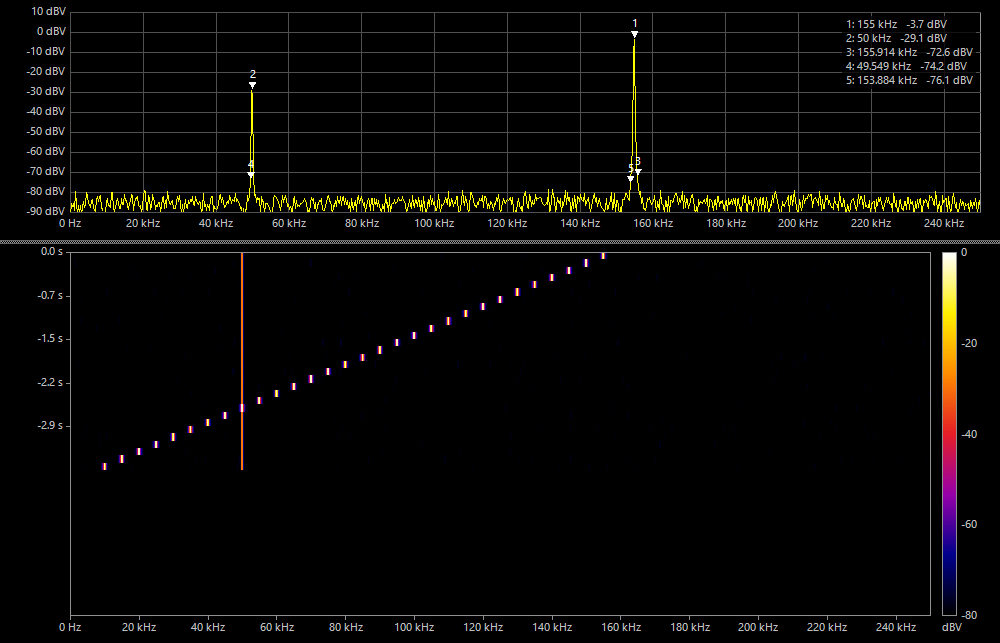
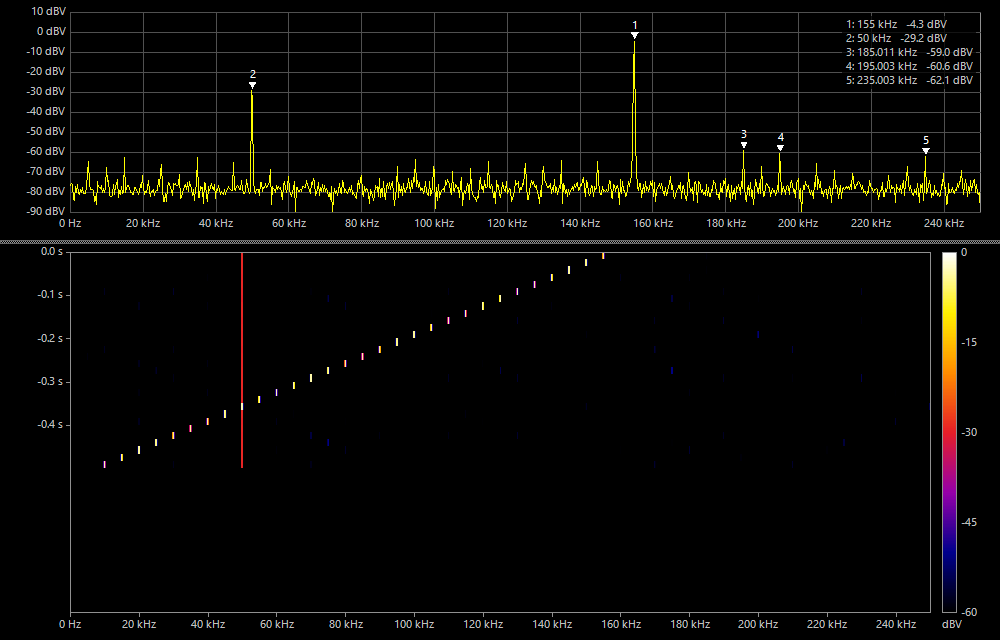
Demo files for the screenshots of FFT, X/Y, Waterfall and Live X/Y
The original test signals of the screenshots were not kept. New
synthetic demo files reproduce them, and the screenshots were made again
from these files with the windows of the program:
- FFT Spectrum Square 10 kHz.oszi: +-1 V, 1 MSa/s, 6000 samples
- X-Y Plot Sine 45 Degree.oszi: 1 kHz, X 0.8 V, Y 1 V, phase 45 degrees
- Waterfall FFT Steps 10-155 kHz.oszi: 30 blocks of 8192 samples at
  500 kSa/s, 10 ... 155 kHz in 5 kHz steps plus a constant 50 kHz tone
  (Waterfall FFT (play), Samples 8192, Speed Max)
- Live X-Y Lissajous 3-2.oszi: 300 / 200 Hz, 48 kSa/s, exactly 0.1 s
  (loops seamlessly)
The files are saved with OsziFile.Save and verified by loading them again
(error below the 8 bit resolution). The manual links to them, the Demo
Files chapter lists them; README, Samples/README.md and ASSET_PROVENANCE.md
document their origin. The X/Y screenshot now shows the color of the X
channel.

diff --git a/Compiled/Manual.htm b/Compiled/Manual.htm
@@ -158,6 +158,9 @@
 <p>
 <div>Oszi Waveform Analyzer comes with several pre-installed demo files that you should open one by one to discover all features.</div>
 <div>These files are real-world oscilloscope captures that can show you how to use this program.</div>
+<div>The demo files for the analysis windows are generated test signals:
+     <a href="Samples/FFT%20Spectrum%20Square%2010%20kHz.oszi">FFT Spectrum Square 10 kHz.oszi</a>, <a href="Samples/X-Y%20Plot%20Sine%2045%20Degree.oszi">X-Y Plot Sine 45 Degree.oszi</a>, <a href="Samples/X-Y%20Plot%20Square%201%20kHz.oszi">X-Y Plot Square 1 kHz.oszi</a>,
+     <a href="Samples/Waterfall%20FFT%20Steps%2010-155%20kHz.oszi">Waterfall FFT Steps 10-155 kHz.oszi</a> and <a href="Samples/Live%20X-Y%20Lissajous%203-2.oszi">Live X-Y Lissajous 3-2.oszi</a>.</div>
 
 <a name="Menu"></a>
 <h1>Keyboard, Mouse and Menu</h1>
@@ -296,7 +299,8 @@
 </table>
 <div>Right-click on the analog signal of a channel and select <b>FFT Spectrum</b> to see which frequencies the signal contains.</div>
 <div>The spectrum opens in a separate window. It is not modal, so you can open multiple spectra and continue working in the main window.</div>
-<div>The screenshot shows a 10 kHz square wave with its odd harmonics at 30, 50, 70 and 90 kHz.</div>
+<div>The screenshot shows the demo file <b><a href="Samples/FFT%20Spectrum%20Square%2010%20kHz.oszi">FFT Spectrum Square 10 kHz.oszi</a></b>: a 10 kHz square wave (&plusmn;1 V, 1 MSa/s, 6000 samples)</div>
+<div>with its odd harmonics at 30, 50, 70 and 90 kHz (Log frequency checked).</div>
 <p>
 <table class="DataTable">
 <tr><th>Setting</th><th>Meaning</th></tr>
@@ -358,7 +362,7 @@
 <p>
 <div>The status bar shows the peak-to-peak voltages and the <b>phase</b> between the channels, calculated from their correlation.</div>
 <div>The phase is only correct if both signals have the <b>same frequency</b>. It is always between 0° and 180°: +45° and -45° show the same value.</div>
-<div>The screenshot shows two sine waves with a phase shift of 45°.</div>
+<div>The screenshot shows the demo file <b><a href="Samples/X-Y%20Plot%20Sine%2045%20Degree.oszi">X-Y Plot Sine 45 Degree.oszi</a></b>: two 1 kHz sine waves (X = 0.8 V, Y = 1 V) with a phase shift of 45°.</div>
 <p>
 <div>The demo file <b>X-Y Plot Square 1 kHz.oszi</b> contains the channels X and Y which draw a <b>square</b> in the X/Y Plot (phase 90°).</div>
 <div>Its channels are trapezoid waves, so they are also a good test for the <a href="#FFT">FFT Spectrum</a>:</div>
@@ -804,7 +808,9 @@
 <div>The upper part shows the latest spectrum with its 5 strongest peaks.</div>
 <div>Below, each row is one spectrum, the newest at the top. The color shows the level in dBV (see the color bar at the right).</div>
 <div>The time axis at the left shows how many seconds ago a spectrum was acquired.</div>
-<div>The screenshot shows a test signal whose frequency rises from 10 kHz to 155 kHz and a constant weak 50 kHz tone.</div>
+<div>The screenshot shows the demo file <b><a href="Samples/Waterfall%20FFT%20Steps%2010-155%20kHz.oszi">Waterfall FFT Steps 10-155 kHz.oszi</a></b>: 30 blocks of 8192 samples at 500 kSa/s whose frequency rises</div>
+<div>in steps of 5 kHz from 10 kHz to 155 kHz, plus a constant weak 50 kHz tone. It behaves like 30 acquisitions of an oscilloscope.</div>
+<div>Right-click on CH1, select <a href="#PlayCapture">Waterfall FFT (play)</a>, Samples = 8192, Speed = Max, Colors = 60 dB, then click Start.</div>
 <p>
 <table class="DataTable">
 <tr><th>Setting</th><th>Meaning</th></tr>
@@ -915,12 +921,14 @@
 <h3>Live X/Y with an Audio Interface</h3>
 
 <table class="TblImage">
-    <tr><td><img src="Images/LiveXY.png" alt="Oszi Waveform Analyzer - Live X/Y" width="380" height="380"></td></tr>
+    <tr><td><img src="Images/LiveXY.png" alt="Oszi Waveform Analyzer - Live X/Y" width="380" height="370"></td></tr>
     <tr><td class="Center"><span class="Link" onClick="ShowFullSize(this, 'Images/LiveXY.png')">Show Full Size</span></td></tr>
 </table>
 <div>Click <b>Live X/Y...</b> in the window <a href="#AudioInput">Audio Input</a>. The left channel moves the beam horizontally (X), the right channel vertically (Y),</div>
 <div>like an analog oscilloscope in XY mode. This is ideal for oscilloscope music, Lissajous figures and the phase of stereo signals.</div>
-<div>The screenshot shows a Lissajous figure with the frequency ratio 3:2.</div>
+<div>The screenshot shows the demo file <b><a href="Samples/Live%20X-Y%20Lissajous%203-2.oszi">Live X-Y Lissajous 3-2.oszi</a></b> played with <a href="#PlayCapture">Live X/Y (play)</a>:</div>
+<div>a Lissajous figure with the frequency ratio 3:2 (X = 300 Hz, Y = 200 Hz, 48 kSa/s). The file contains exactly 0.1 seconds, so it loops seamlessly.</div>
+<div>With <b>Sound</b> checked you hear both tones.</div>
 <p>
 <div>The display simulates the phosphor of a cathode ray tube: the beam leaves a trace which fades with the selected persistence.</div>
 <div>A fast moving beam is dimmer than a slow one, so the turning points of a figure are brighter, exactly like on an analog oscilloscope.</div>

diff --git a/README.md b/README.md
@@ -65,6 +65,11 @@ Right-click on the analog signal of a channel:
 - **FFT Spectrum**: Hann, Hamming, Blackman-Harris, Flat Top and Rectangular windows, dBV or Volt, logarithmic frequency axis, zoom, peak detection with interpolated frequencies, CSV export.
 - **X/Y Plot**: two channels as Lissajous figure with phosphor-like intensity display and phase measurement. This replaces the XY mode of the oscilloscope with captures recorded in Yt mode.
 - Demo file `Compiled/Samples/X-Y Plot Square 1 kHz.oszi`: draws a square in the X/Y Plot, and its trapezoid waves show odd harmonics with 1/n² in the FFT.
+- The screenshots in the manual are made from generated demo files in [`Compiled/Samples`](Compiled/Samples):
+  [FFT Spectrum Square 10 kHz](Compiled/Samples/FFT%20Spectrum%20Square%2010%20kHz.oszi),
+  [X-Y Plot Sine 45 Degree](Compiled/Samples/X-Y%20Plot%20Sine%2045%20Degree.oszi),
+  [Waterfall FFT Steps 10-155 kHz](Compiled/Samples/Waterfall%20FFT%20Steps%2010-155%20kHz.oszi) (play it with *Waterfall FFT (play)*) and
+  [Live X-Y Lissajous 3-2](Compiled/Samples/Live%20X-Y%20Lissajous%203-2.oszi) (play it with *Live X/Y (play)*).
 
 ### WAV import
 

diff --git a/ASSET_PROVENANCE.md b/ASSET_PROVENANCE.md
@@ -12,7 +12,7 @@ Files added in this fork include:
 - `Compiled/Images/XYPlot.png`
 
 These are screenshots generated from this project.
-`WaterfallFFT.png` and `LiveXY.png` show synthetic test signals, `WaterfallAudio.png` is an image export
+`FftSpectrum.png`, `XYPlot.png`, `WaterfallFFT.png` and `LiveXY.png` show synthetic test signals (the demo files in `Compiled/Samples`, see `Compiled/Samples/README.md`), `WaterfallAudio.png` is an image export
 of the Waterfall FFT from a measurement with a real HMO1522 (only the spectrum is shown, no audio data is included).
 
 Inherited assets retain their original copyright and licensing status. Their inclusion here does not assert ownership beyond rights granted by the upstream project or the relevant copyright holder. Assets whose provenance or redistribution rights cannot be established should be replaced or removed.

diff --git a/Compiled/Samples/README.md b/Compiled/Samples/README.md
@@ -5,6 +5,9 @@ The files in this directory are waveform or protocol captures used to demonstrat
 ## Added in this fork
 
 - `X-Y Plot Square 1 kHz.oszi` — generated for the X/Y Plot and FFT demonstration in 2026 by Peter Schwendner.
+- `FFT Spectrum Square 10 kHz.oszi`, `X-Y Plot Sine 45 Degree.oszi`, `Waterfall FFT Steps 10-155 kHz.oszi` and `Live X-Y Lissajous 3-2.oszi` —
+  synthetic test signals generated in 2026 for the screenshots of the manual (FFT Spectrum, X/Y Plot, Waterfall FFT, Live X/Y).
+  The screenshots `Compiled/Images/FftSpectrum.png`, `XYPlot.png`, `WaterfallFFT.png` and `LiveXY.png` were made from these files.
 
 ## Inherited samples
 
